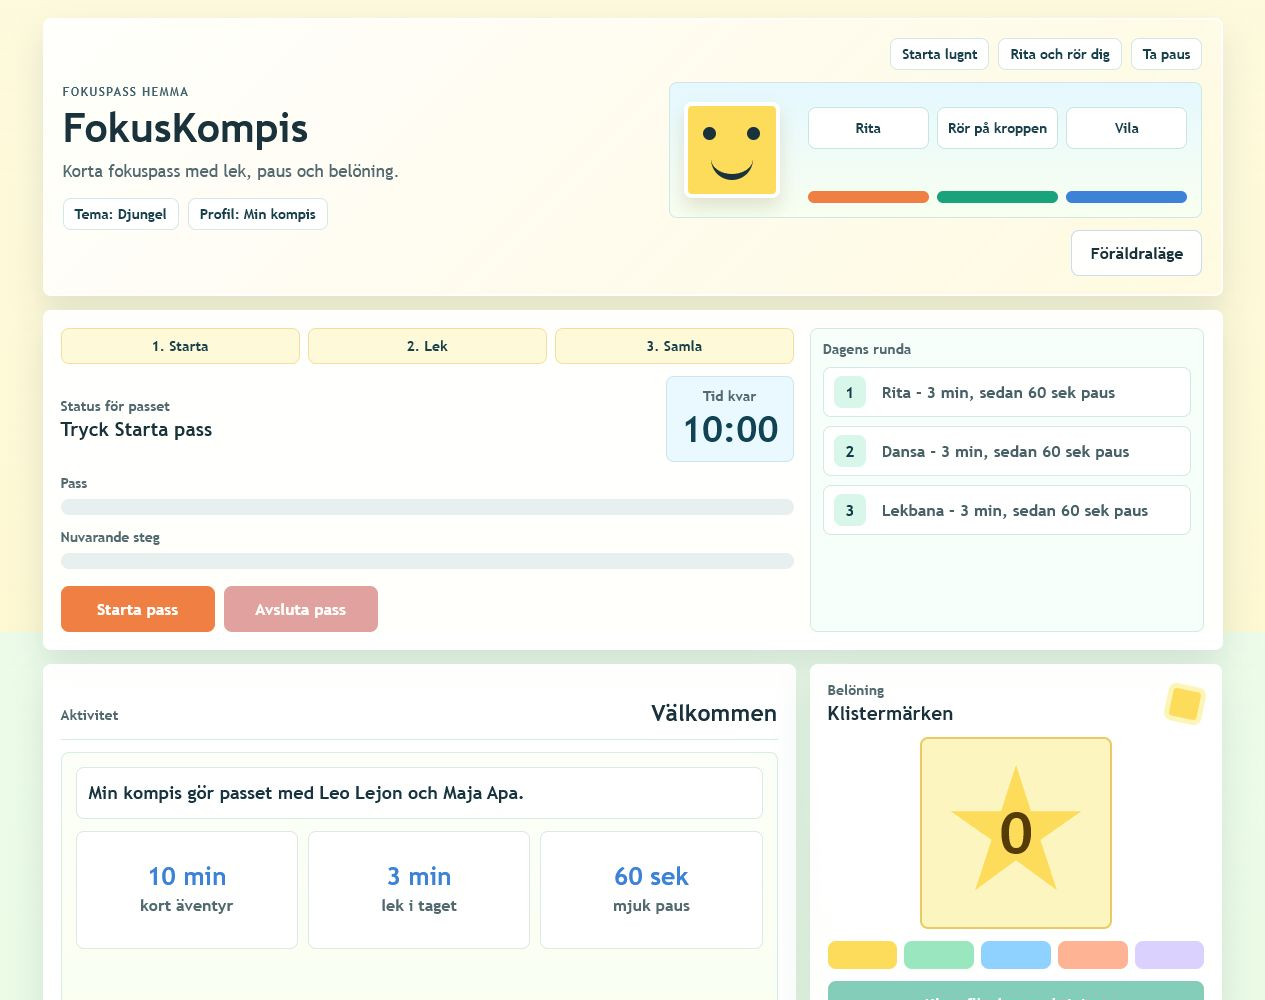
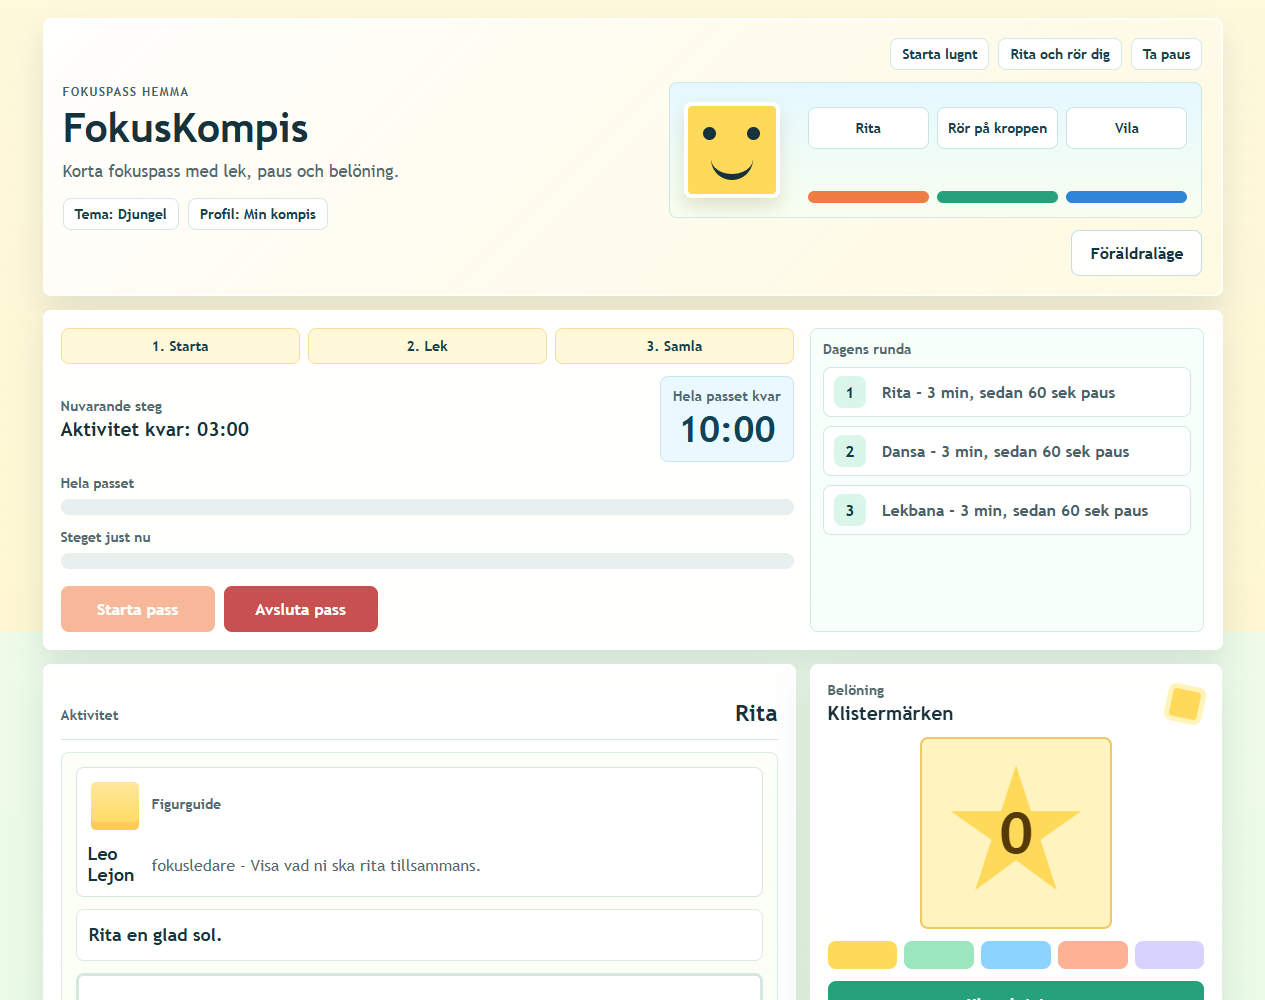
Clarify session and step timers

diff --git a/script.js b/script.js
@@ -599,9 +599,9 @@ function renderIdle() {
   els.activityStage.innerHTML = [
     "<p class='prompt'>" + escapeHtml(settings.childName) + " gör passet med " + escapeHtml(theme.heroName) + " och " + escapeHtml(theme.buddyName) + ".</p>",
     "<div class='welcome-board'>",
-    "<article class='welcome-tile'><strong>" + sessionMin + " min</strong><span>kort äventyr</span></article>",
-    "<article class='welcome-tile'><strong>" + Math.round(settings.activityDurationSec / 60) + " min</strong><span>lek i taget</span></article>",
-    "<article class='welcome-tile'><strong>" + Math.round(settings.breakDurationSec) + " sek</strong><span>mjuk paus</span></article>",
+    "<article class='welcome-tile'><strong>" + sessionMin + " min</strong><span>hela passet</span></article>",
+    "<article class='welcome-tile'><strong>" + Math.round(settings.activityDurationSec / 60) + " min</strong><span>per steg</span></article>",
+    "<article class='welcome-tile'><strong>" + Math.round(settings.breakDurationSec) + " sek</strong><span>paus mellan steg</span></article>",
     "</div>"
   ].join("");
 }
@@ -886,11 +886,11 @@ function updateTimersUi() {
   }
 
   if (state.phase === "activity") {
-    els.phaseLabel.textContent = "Aktivitet: " + asClock(state.phaseRemainingSec);
+    els.phaseLabel.textContent = "Aktivitet kvar: " + asClock(state.phaseRemainingSec);
     const progress = 100 - (state.phaseRemainingSec / settings.activityDurationSec) * 100;
     els.phaseProgress.value = clamp(progress, 0, 100);
   } else {
-    els.phaseLabel.textContent = "Paus: " + asClock(state.phaseRemainingSec);
+    els.phaseLabel.textContent = "Paus kvar: " + asClock(state.phaseRemainingSec);
     const progress = 100 - (state.phaseRemainingSec / settings.breakDurationSec) * 100;
     els.phaseProgress.value = clamp(progress, 0, 100);
   }

diff --git a/index.html b/index.html
@@ -55,22 +55,22 @@
         </div>
         <div class="status-row">
           <div>
-            <p class="label">Status för passet</p>
+            <p class="label">Nuvarande steg</p>
             <p id="phaseLabel" class="phase" aria-live="polite">Tryck Starta pass</p>
           </div>
           <div class="timer-wrap">
-            <p class="label">Tid kvar</p>
+            <p class="label">Hela passet kvar</p>
             <p id="sessionTimer" class="timer">10:00</p>
           </div>
         </div>
 
         <div class="meter-block">
-          <label for="sessionProgress">Pass</label>
+          <label for="sessionProgress">Hela passet</label>
           <progress id="sessionProgress" value="0" max="100"></progress>
         </div>
 
         <div class="meter-block">
-          <label for="phaseProgress">Nuvarande steg</label>
+          <label for="phaseProgress">Steget just nu</label>
           <progress id="phaseProgress" value="0" max="100"></progress>
         </div>
 
